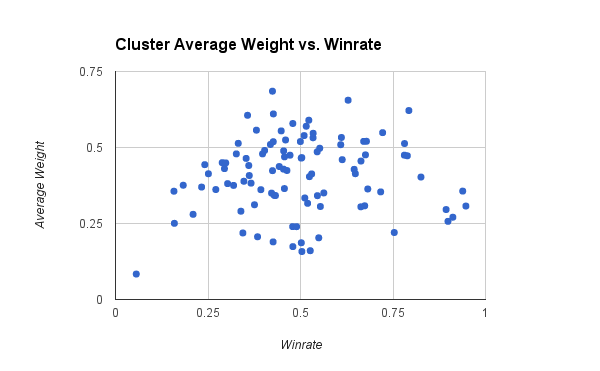
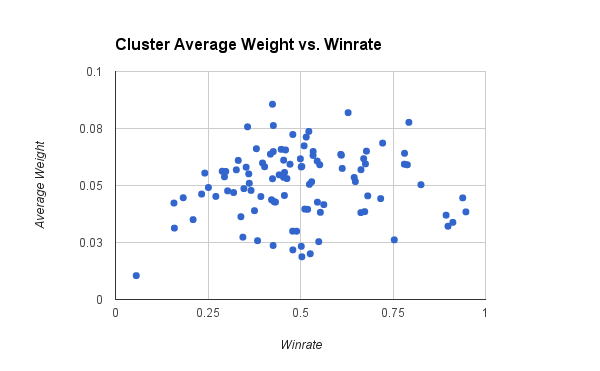
fixed avg weight calculation

diff --git a/JunglerDataVisualization.py b/JunglerDataVisualization.py
@@ -89,8 +89,8 @@ def buildClusters(fileID):
 		for i in range(len(clusterWeights)):
 			clusterWeights[i] += dp[i]
 	for i in range(len(clusterWeights)):
-		# divide all sums by num of clusters
-		clusterWeights[i] = clusterWeights[i]/len(clusterWeights)
+		# divide all sums by num of datapoints
+		clusterWeights[i] = clusterWeights[i]/len(dataWeights)
 
 	# build result cluster list
 	clusters = []
@@ -147,7 +147,7 @@ if __name__ == "__main__":
 
 		# print data to stick in scatterplot
 		for clus in clusters:
-			print(str(clus[1]) + "\t" + str(clus[2]))
+			print(str(clus[1]) + " " + str(clus[2]))
 
 		if DRAW_METHOD == 0:
 			clusters = clusters[:3] + clusters[len(clusters)-3:]
